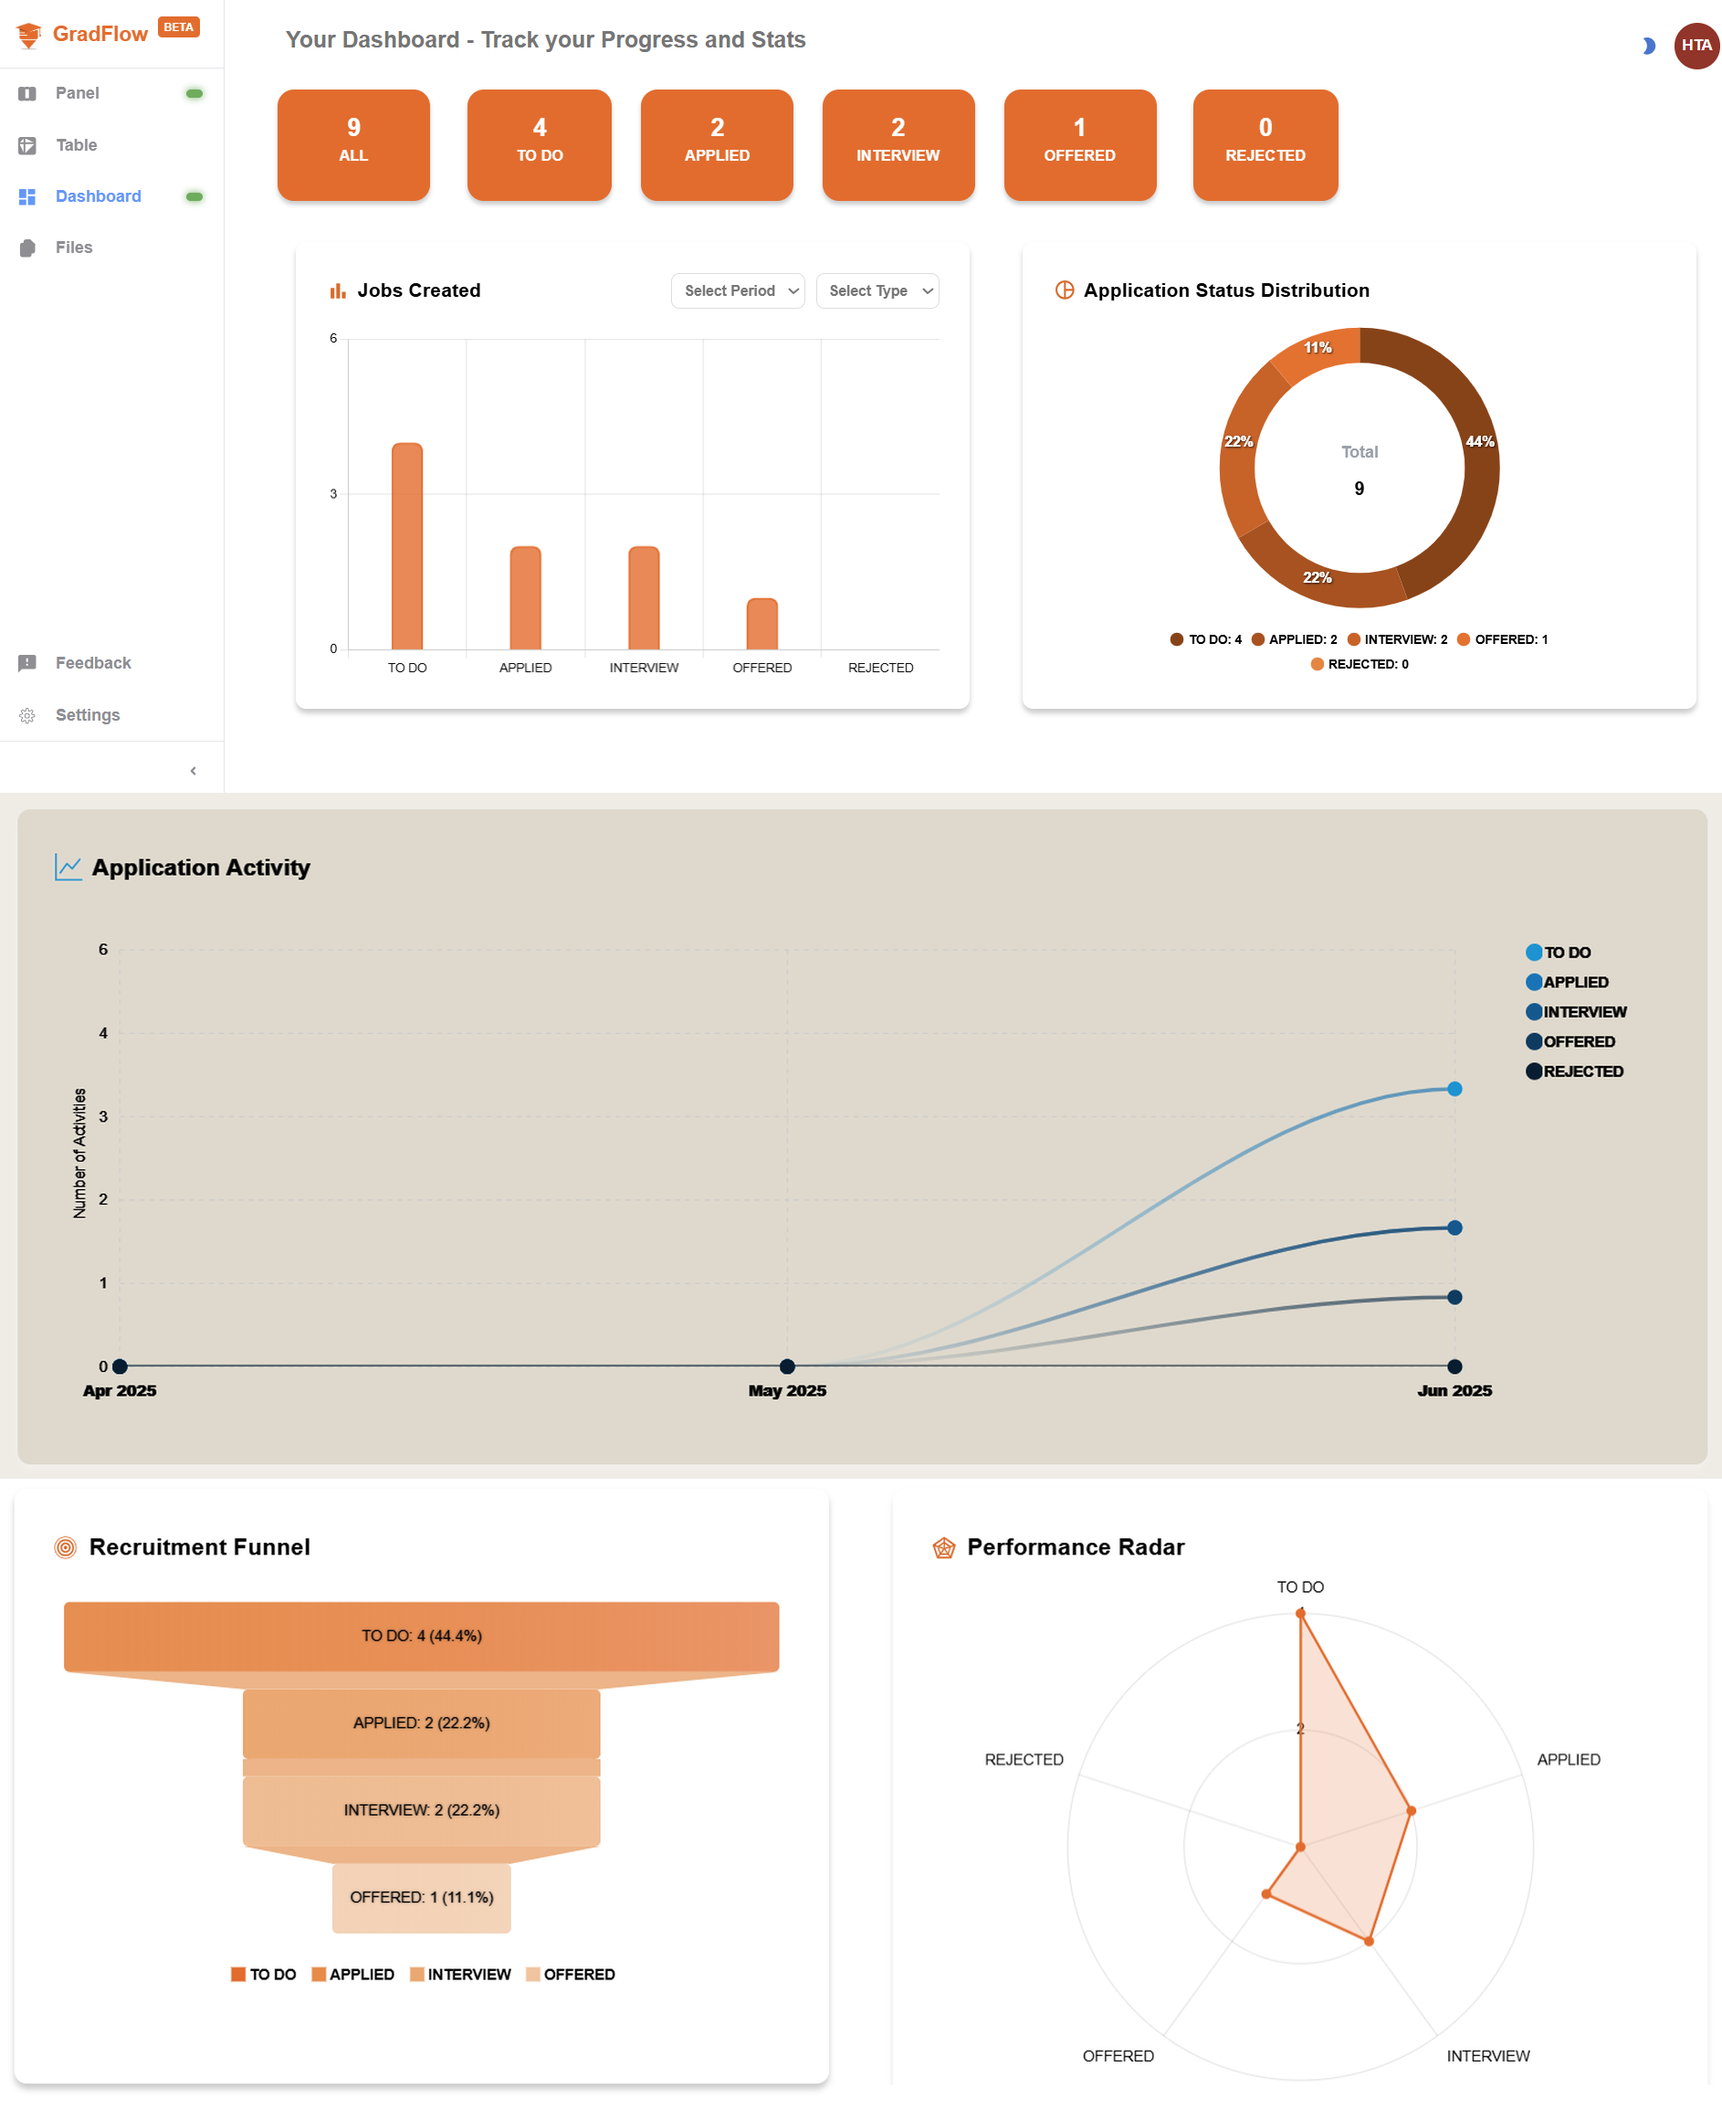
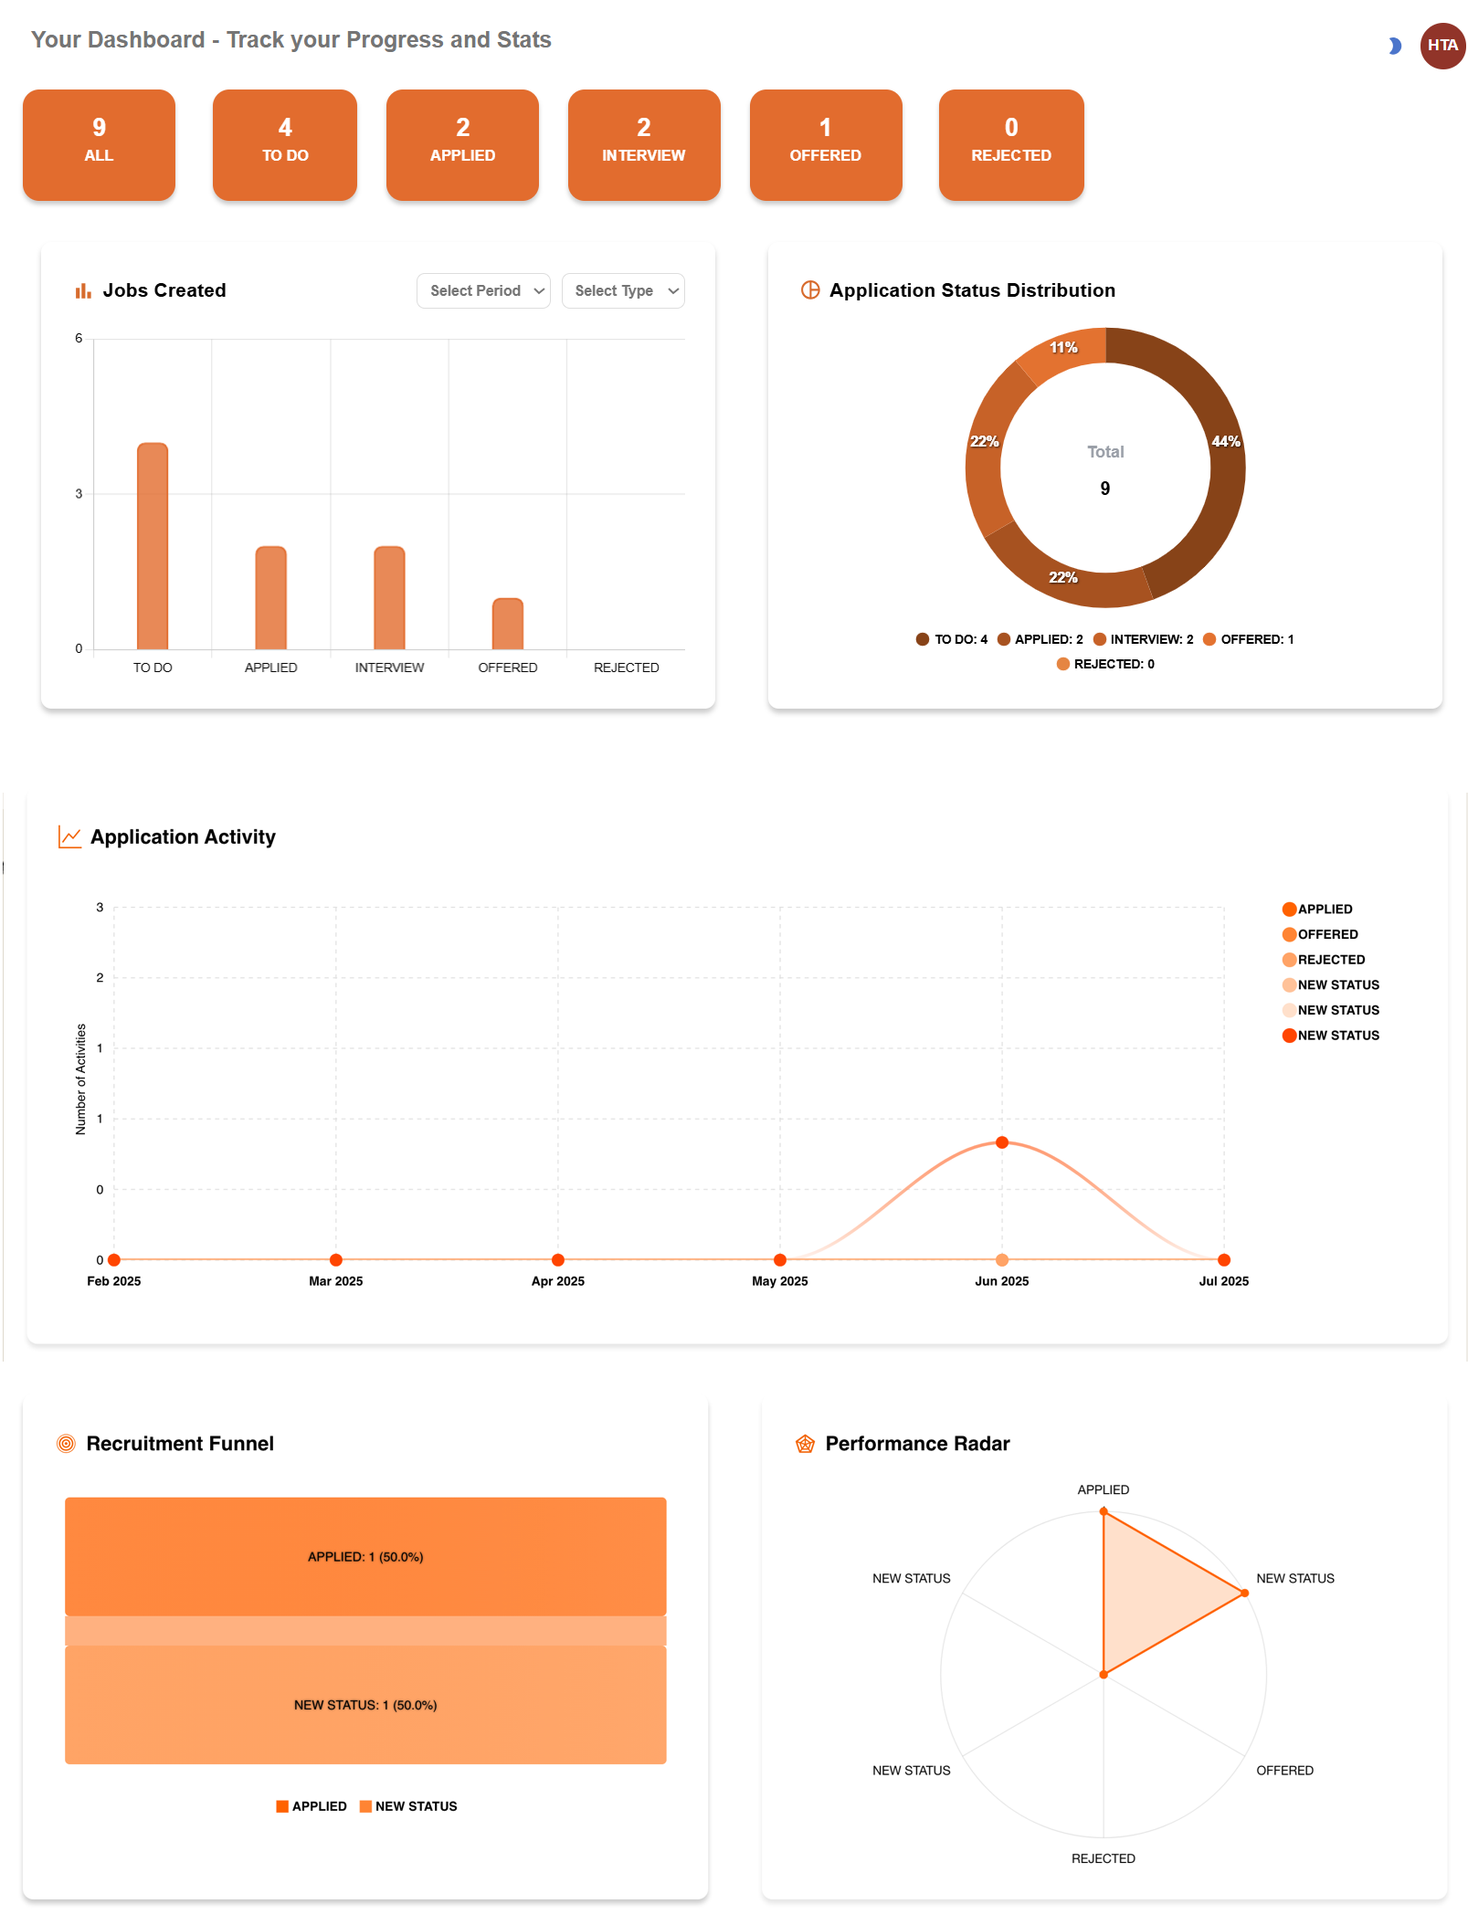
added light mode images and fixed height on radar chart

diff --git a/src/components/LandingPage/Panel.tsx b/src/components/LandingPage/Panel.tsx
@@ -12,25 +12,29 @@ const items = [
     title: "Panel",
     description:
       "Visualize your job application journey like never before! Helping you stay on track and motivated as you chase your dream job.",
-    image: 'url("https://i.imgur.com/UcFmgd2.png")',
+    imageLight: "/Images/Panel (Light).png",
+    imageDark: "/Images/Panel (Dark).png",
     logo: <ViewQuiltRoundedIcon fontSize="medium" />,
   },
   {
     title: "Drag and Drop",
     description: 'Take control of your job hunt with our dynamic drag-and-drop feature! Effortlessly organize your applications and tailor your roadmap',
-    image: 'url("https://i.imgur.com/p8EcR2u.png")',
+    imageLight: "/Images/DnD (Light).png",
+    imageDark: "/Images/DnD (Dark).png",
     logo: <EdgesensorHighRoundedIcon fontSize="medium" />,
   },
   {
     title: 'Table',
     description: 'Discover your data like never before! Our Table feature transforms your insights into an organized and interactive experience, making it easy to analyze and strategize your job search.',
-    image: 'url("https://i.imgur.com/RA7sJxz.png")',
+    imageLight: "/Images/Table (Light).png",
+    imageDark: "/Images/Table (Dark).png",
     logo: <BackupTableIcon fontSize="medium" />,
   },
   {
     title: 'Files',
     description: 'Stay tuned for our upcoming features that will streamline your job search and make your applications stand out',
-    image: 'url("https://i.imgur.com/0Lwrm2n.png")',
+    imageLight: "/Images/Frame 1 (Light).png",
+    imageDark: "/Images/Frame 1 (Dark).png",
     logo: <FileOpenIcon fontSize="medium" />,
   },
 ];
@@ -44,18 +48,24 @@ export default function BuiltForYou() {
   const [previousImage, setPreviousImage] = useState<string | null>(null);
 
   useEffect(() => {
-    // Preload images
+    // Preload images for both light and dark mode
     items.forEach(item => {
-      const img = new Image();
-      img.src = item.image.slice(4, -1).replace(/"/g, "");
+      const imgLight = new window.Image();
+      imgLight.src = item.imageLight;
+      const imgDark = new window.Image();
+      imgDark.src = item.imageDark;
     });
   }, []);
+
+  const getImageForIndex = (index) => {
+    return theme.palette.mode === 'dark' ? items[index].imageDark : items[index].imageLight;
+  };
 
   const handleImageChange = (index) => {
     if (index !== selectedIndex && !isTransitioning) {
       setIsTransitioning(true);
       setImageLoaded(false);
-      setPreviousImage(items[selectedIndex]?.image.slice(4, -1).replace(/"/g, ""));
+      setPreviousImage(getImageForIndex(selectedIndex));
 
       // Wait for fade out animation before changing image
       setTimeout(() => {
@@ -231,7 +241,7 @@ export default function BuiltForYou() {
             )}
             <img
               className={`animate__animated ${isTransitioning ? "animate__fadeOut" : "animate__fadeIn"}`}
-              src={items[selectedIndex]?.image.slice(4, -1).replace(/"/g, "")}
+              src={getImageForIndex(selectedIndex)}
               alt={items[selectedIndex]?.title}
               onLoad={() => {
                 setIsLoading(false);

diff --git a/src/components/LandingPage/Insights.tsx b/src/components/LandingPage/Insights.tsx
@@ -20,14 +20,16 @@ const items = [
     title: "Dashboard",
     description:
       "Dive into your personalized Dashboard, where insights and opportunities come together! Track your progress and gain a clear view of your job applications, all in one dynamic hub.",
-    image: 'url(https://i.imgur.com/bSTMQlX.png)',
+    imageLight: "/Images/Dashboard/Combined Dashbaord (Light).png",
+    imageDark: "/Images/Dashboard/Combined Dashbaord (Dark).png",
     imagePosition: "center 20px",
   },
   {
     title: "Quick Add",
     description:
       "Instantly capture and organize your job applications with just a click, making your journey to landing that dream job faster and easier than ever!",
-    image: 'url(https://i.imgur.com/YQzwGsk.png)',
+    imageLight: "/Images/Quick Add (Light).png",
+    imageDark: "/Images/Quick Add (Dark).png",
     icon: <LibraryAddIcon />,
   },
   {
@@ -35,7 +37,8 @@ const items = [
     title: "Coming Soon",
     description:
       "Exciting things are on the horizon! Stay tuned for our upcoming features that will elevate your job application experience to new heights!",
-    image: "/LandingPageMedia/Terminal - Coming Soon.png",
+    imageLight: "/Images/Frame 1 (Light).png",
+    imageDark: "/Images/Frame 1 (Dark).png",
     imagePosition: "center",
   },
 ];
@@ -47,11 +50,15 @@ export default function Insights() {
   const [isTransitioning, setIsTransitioning] = useState(false);
   const [previousImage, setPreviousImage] = useState<string | null>(null);
 
+  const getImageForIndex = (index) => {
+    return theme.palette.mode === 'dark' ? items[index].imageDark : items[index].imageLight;
+  };
+
   const handleItemClick = (index) => {
     if (index === selectedItemIndex || isTransitioning) return;
 
     setIsTransitioning(true);
-    setPreviousImage(items[selectedItemIndex]?.image.slice(4, -1).replace(/"/g, ""));
+    setPreviousImage(getImageForIndex(selectedItemIndex));
 
     // Wait for fade out animation before changing image
     setTimeout(() => {
@@ -222,7 +229,7 @@ export default function Insights() {
                         mt: 2,
                         maxWidth: 500,
                         fontWeight: 500,
-                        color: "white"
+                        color: theme.palette.mode === "light" ? "grey.800" : "white"
                       }}
                     >
                       We're hard at work creating exciting new features for the website. Stay tuned for updates!
@@ -230,7 +237,7 @@ export default function Insights() {
                   </Box>
                 ) : (
                   <img
-                    src={selectedFeature.image.slice(4, -1).replace(/"/g, "")}
+                    src={getImageForIndex(selectedItemIndex)}
                     alt={selectedFeature.title}
                     style={{
                       height: "100%",
@@ -252,7 +259,7 @@ export default function Insights() {
           </Grid>
         </Grid>
       </Container>
-    </Box>
+    </Box >
   );
 }
 

diff --git a/src/pages/dashboard/RadarChart.tsx b/src/pages/dashboard/RadarChart.tsx
@@ -1,4 +1,4 @@
-import React from 'react';
+import React, { useRef } from 'react';
 import {
     Chart as ChartJS,
     RadialLinearScale,
@@ -36,6 +36,8 @@ interface RadarChartComponentProps {
 }
 
 const RadarChartComponent: React.FC<RadarChartComponentProps> = ({ data, isLight, title }) => {
+    const chartRef = useRef<HTMLDivElement | null>(null);
+
     const sortedData = [...data].sort((a, b) => b.value - a.value);
     const labels = sortedData.map(item => item.name);
     const datasetValues = sortedData.map(item => item.value);
@@ -124,7 +126,8 @@ const RadarChartComponent: React.FC<RadarChartComponentProps> = ({ data, isLight
                 display: 'flex',
                 alignItems: 'center',
                 gap: '8px',
-                alignSelf: 'flex-start',
+                alignSelf: 'flex-start', marginBottom: '20px',
+
             }}>
                 <AiOutlineRadarChart style={{ color: '#F26203', fontSize: '22px' }} />
                 <h4 className="radar-chart-title" style={{
@@ -134,8 +137,13 @@ const RadarChartComponent: React.FC<RadarChartComponentProps> = ({ data, isLight
                 }}>{title}</h4>
             </div>
 
-            <div style={{ height: '430px', width: '100%', position: 'relative' }}>
-                <Radar data={chartData} options={options} />
+            <div
+                ref={chartRef} style={{
+                    height: '100%',
+                    width: '100%', position: 'relative', padding: '0 10px'
+
+                }}>
+                <Radar data={chartData} options={options} height={365} />
             </div>
         </div>
     );

diff --git a/src/pages/dashboard/Dashboard.tsx b/src/pages/dashboard/Dashboard.tsx
@@ -188,7 +188,7 @@ const Dashboard: React.FC = () => {
       </Row>
 
 
-    {/* <Row>
+      {/* <Row>
       <Col xs={24}>
         <AnimateInView delay={0.1}>
           <Panel style={{ background: 'none', margin: '10px 0px', height: '100%' }}>
@@ -268,7 +268,7 @@ const Dashboard: React.FC = () => {
         <Col xs={24} md={12}>
           <AnimateInView delay={0.1}>
 
-            <Panel style={{ background: 'none', margin: '10px 0px', height: '100%', overflow: 'hidden', maxHeight: maxHeight }}>
+            <Panel style={{ background: 'none', margin: '10px 0px', height: '100%', overflow: 'hidden', maxHeight: 535 }}>
               <RadarChartComponent
                 key={keyForCharts}
                 data={funnelData}
